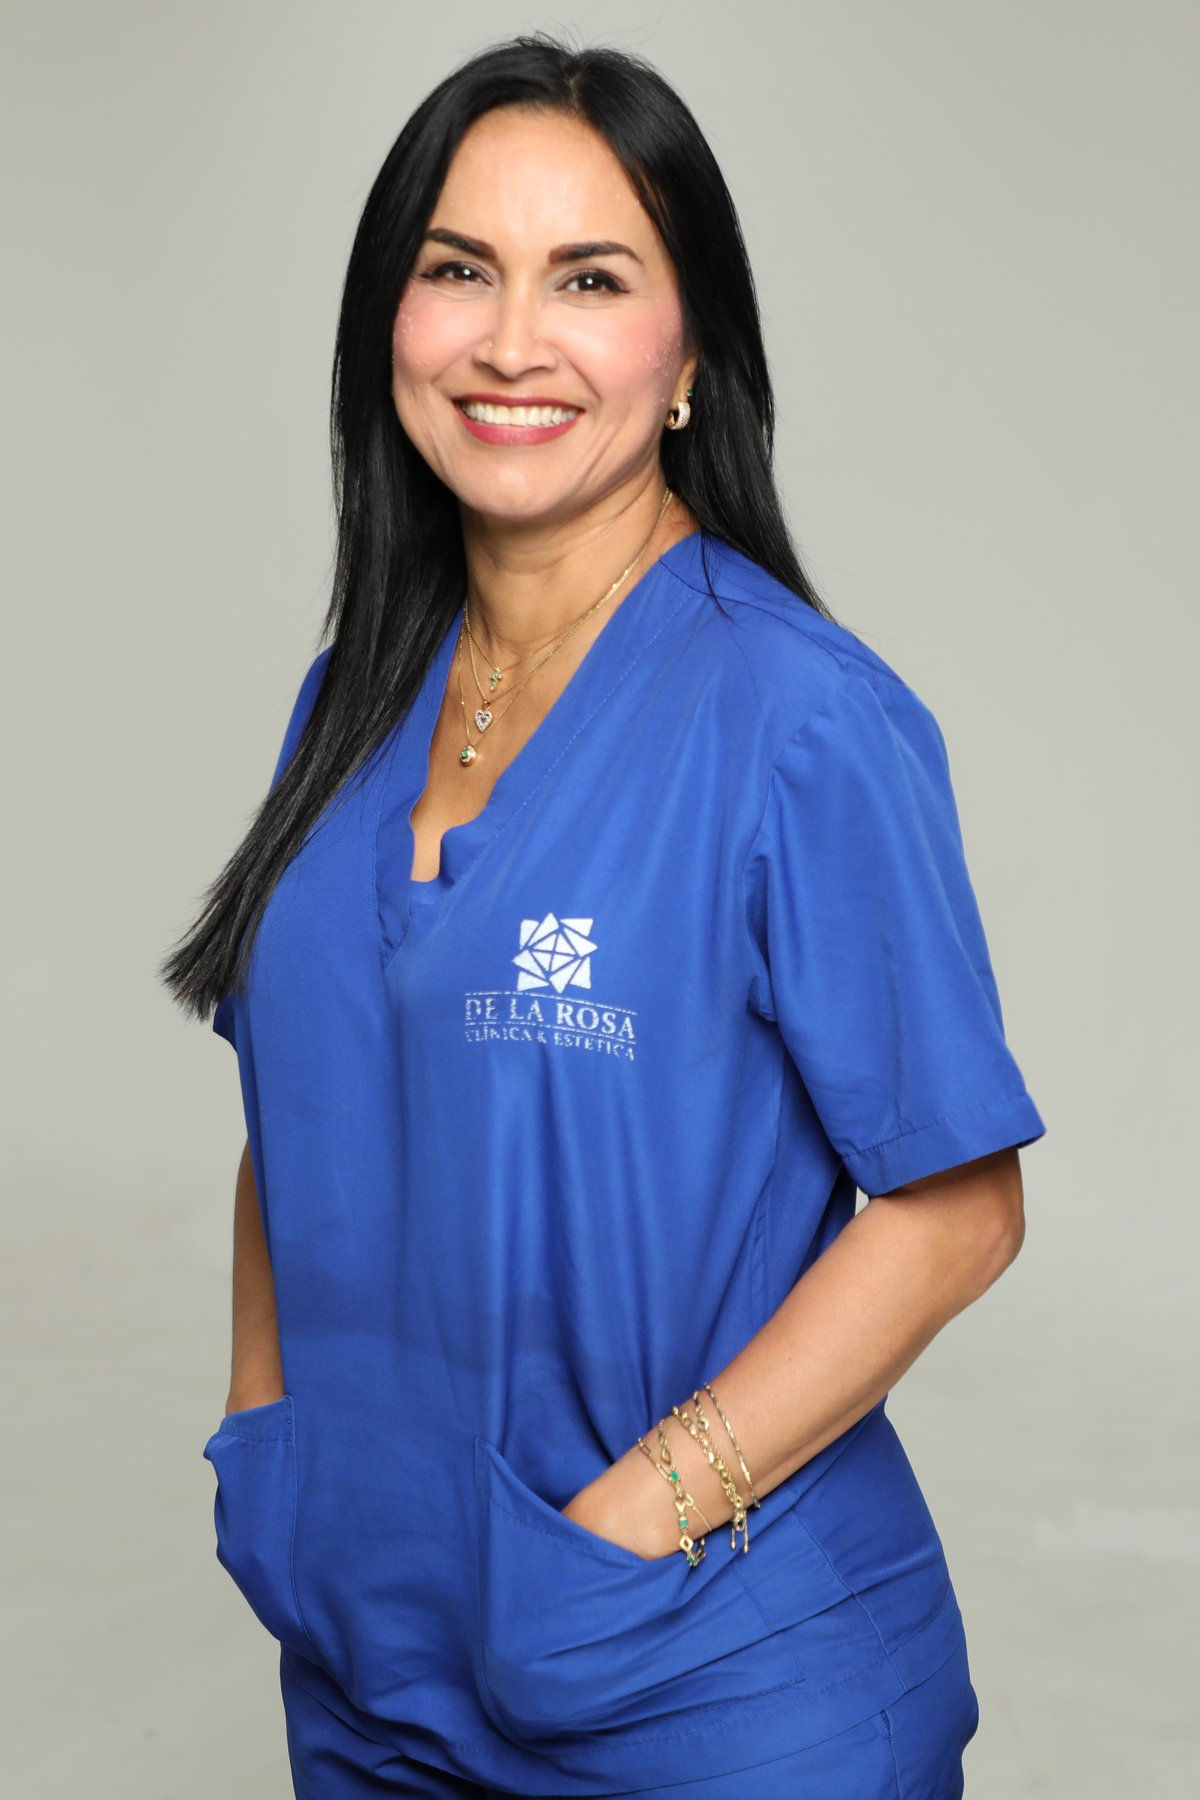
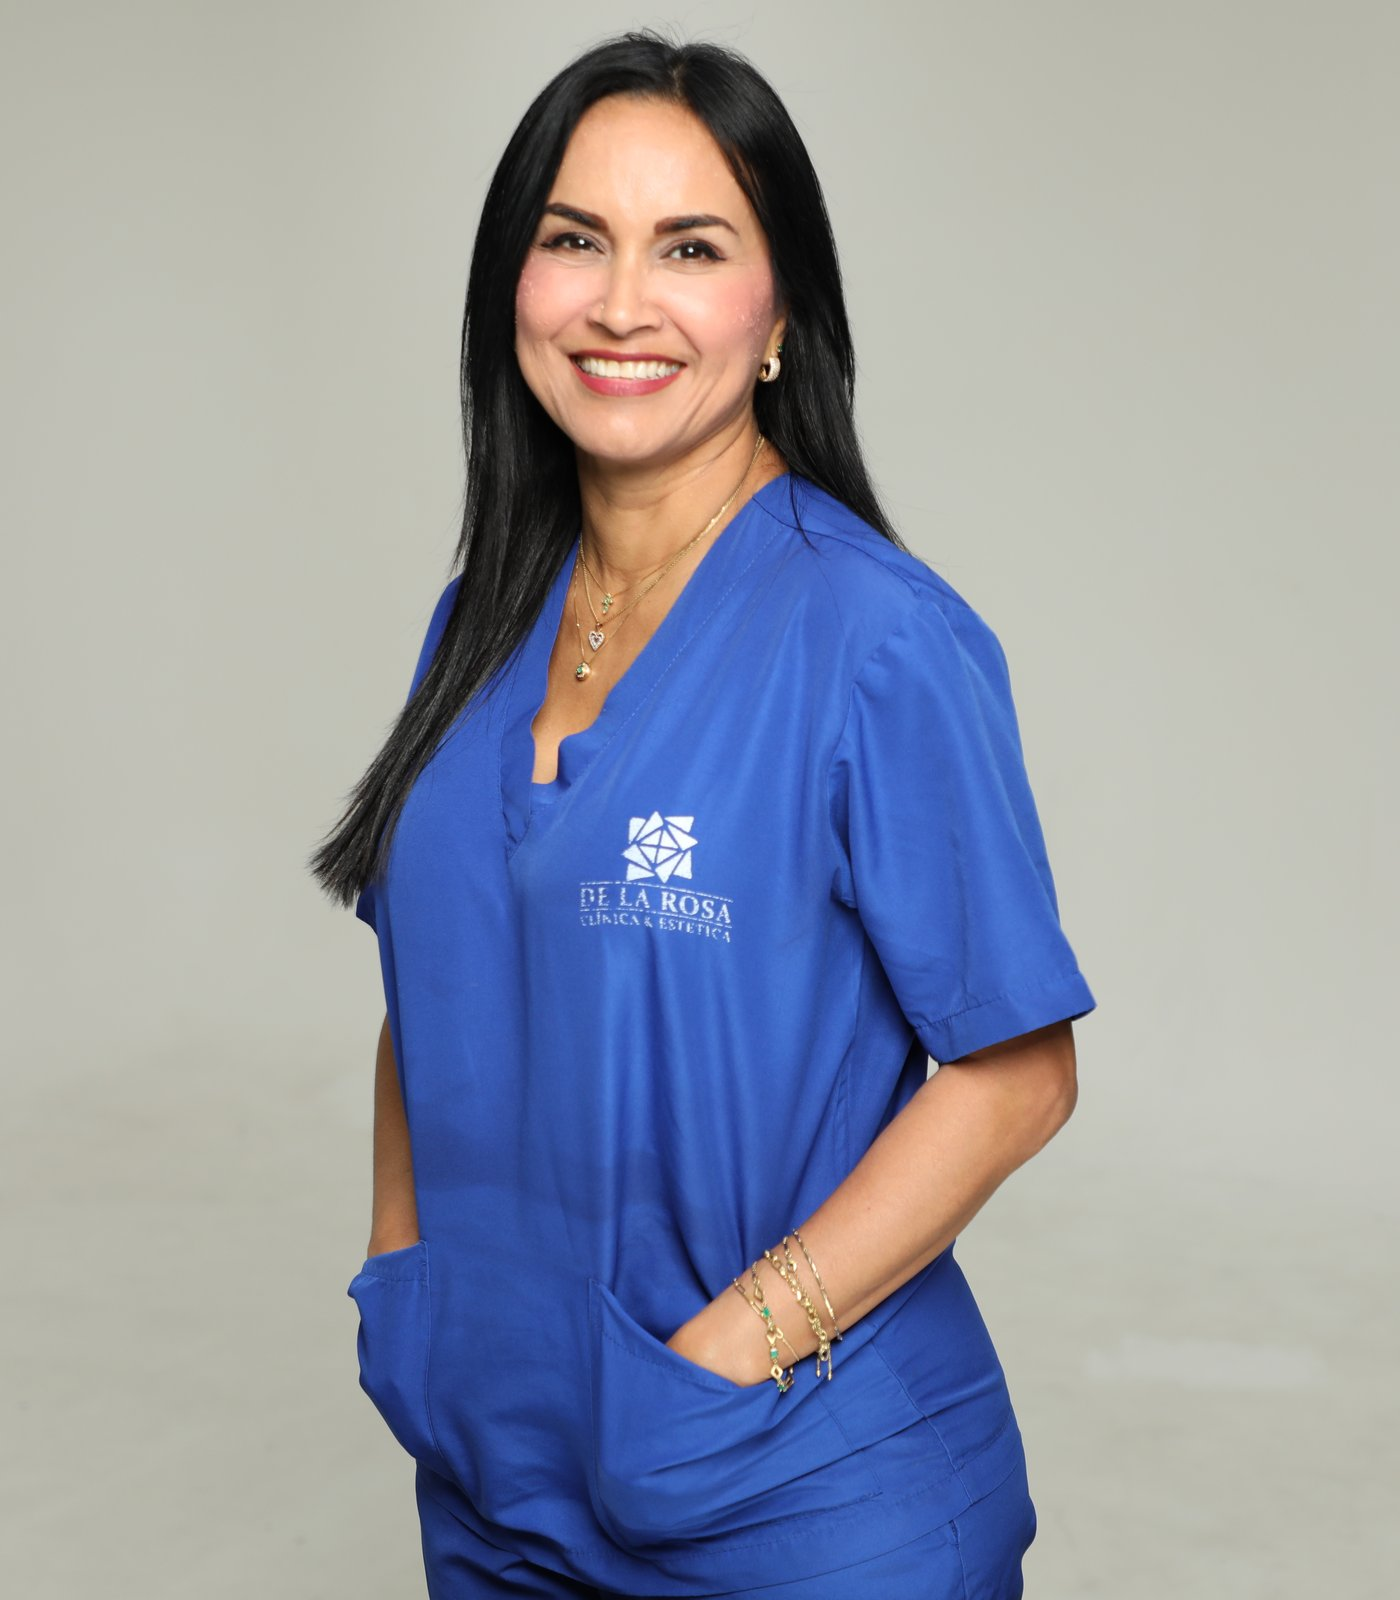
Add files via upload

Changed region(s): [[0.1233, 0.0, 0.8633, 1.0]]

diff --git a/nosotros.html b/nosotros.html
@@ -75,14 +75,26 @@
 </section>
 
 <section class="section section--crema">
-  <div class="container two-col" style="align-items: center;">
-    <img src="assets/img/doctora.jpg" alt="Dra. María Helena De La Rosa, cirujana plástica" width="1200" height="1800" loading="lazy" style="border-radius: 8px; max-height: 640px; width: 100%; object-fit: cover; object-position: center 20%;">
-    <div class="stack">
-      <div class="eyebrow">Nosotros</div>
-      <h2 class="h2">Dra. María Helena De La Rosa</h2>
-      <p class="muted">Cirujana plástica · [Credenciales y asociaciones]</p>
+  <div class="container doctors">
+    <div class="two-col doctor-profile">
+      <img src="assets/img/doctora.jpg" alt="Dra. María Helena De La Rosa, cirujana plástica" width="1400" height="1600" loading="lazy" style="border-radius: 8px; max-height: 640px; width: 100%; object-fit: cover; object-position: center top;">
+      <div class="stack">
+        <div class="eyebrow">Equipo médico</div>
+        <h2 class="h2">Dra. María Helena De La Rosa</h2>
+        <p class="muted">Cirujana plástica · [Credenciales y asociaciones]</p>
 <p class="muted" style="font-size: 18px; line-height: 1.75;">[Biografía de la doctora: formación, especialización y años de experiencia.]</p>
 <p class="muted" style="font-size: 18px; line-height: 1.75;">[Asociaciones a las que pertenece, p. ej. Sociedad Colombiana de Cirugía Plástica, y registro médico.]</p>
+      </div>
+    </div>
+    <div class="two-col doctor-profile doctor-profile--reverse">
+      <img src="assets/img/doctor-cesar.jpg" alt="Dr. César Sánchez, cirujano cardiovascular y vascular periférico" width="1400" height="1600" loading="lazy" style="border-radius: 8px; max-height: 640px; width: 100%; object-fit: cover; object-position: center top;">
+      <div class="stack">
+        <div class="eyebrow">Equipo médico</div>
+        <h2 class="h2">Dr. César Sánchez</h2>
+        <p class="muted">Cirujano cardiovascular y vascular periférico · [Credenciales y asociaciones]</p>
+<p class="muted" style="font-size: 18px; line-height: 1.75;">[Biografía del doctor: formación, especialización y años de experiencia.]</p>
+<p class="muted" style="font-size: 18px; line-height: 1.75;">[Asociaciones a las que pertenece y registro médico.]</p>
+      </div>
     </div>
   </div>
 </section>

diff --git a/en/nosotros.html b/en/nosotros.html
@@ -75,14 +75,26 @@
 </section>
 
 <section class="section section--crema">
-  <div class="container two-col" style="align-items: center;">
-    <img src="../assets/img/doctora.jpg" alt="Dr. María Helena De La Rosa, plastic surgeon" width="1200" height="1800" loading="lazy" style="border-radius: 8px; max-height: 640px; width: 100%; object-fit: cover; object-position: center 20%;">
-    <div class="stack">
-      <div class="eyebrow">About us</div>
-      <h2 class="h2">Dr. María Helena De La Rosa</h2>
-      <p class="muted">Plastic surgeon · [Credentials and memberships]</p>
+  <div class="container doctors">
+    <div class="two-col doctor-profile">
+      <img src="../assets/img/doctora.jpg" alt="Dr. María Helena De La Rosa, plastic surgeon" width="1400" height="1600" loading="lazy" style="border-radius: 8px; max-height: 640px; width: 100%; object-fit: cover; object-position: center top;">
+      <div class="stack">
+        <div class="eyebrow">Medical team</div>
+        <h2 class="h2">Dr. María Helena De La Rosa</h2>
+        <p class="muted">Plastic surgeon · [Credentials and memberships]</p>
 <p class="muted" style="font-size: 18px; line-height: 1.75;">[Doctor&#39;s biography: education, specialization and years of experience.]</p>
 <p class="muted" style="font-size: 18px; line-height: 1.75;">[Professional memberships, e.g. Colombian Society of Plastic Surgery, and medical license.]</p>
+      </div>
+    </div>
+    <div class="two-col doctor-profile doctor-profile--reverse">
+      <img src="../assets/img/doctor-cesar.jpg" alt="Dr. César Sánchez, cardiovascular and peripheral vascular surgeon" width="1400" height="1600" loading="lazy" style="border-radius: 8px; max-height: 640px; width: 100%; object-fit: cover; object-position: center top;">
+      <div class="stack">
+        <div class="eyebrow">Medical team</div>
+        <h2 class="h2">Dr. César Sánchez</h2>
+        <p class="muted">Cardiovascular and peripheral vascular surgeon · [Credentials and memberships]</p>
+<p class="muted" style="font-size: 18px; line-height: 1.75;">[Doctor&#39;s biography: education, specialization and years of experience.]</p>
+<p class="muted" style="font-size: 18px; line-height: 1.75;">[Professional memberships and medical license.]</p>
+      </div>
     </div>
   </div>
 </section>

diff --git a/assets/css/styles.css b/assets/css/styles.css
@@ -141,6 +141,11 @@ p { margin: 0; }
 .doctor strong { display: block; font-size: 20px; font-weight: 500; }
 .doctor span { font-size: 15px; color: var(--texto-2); }
 
+/* Perfiles médicos */
+.doctors { display: flex; flex-direction: column; gap: 96px; }
+.doctor-profile { align-items: center; }
+@media (min-width: 961px) { .doctor-profile--reverse > img { order: 2; } }
+
 /* Pacientes internacionales */
 .split { display: grid; grid-template-columns: 1fr 1fr; gap: 56px; align-items: center; }
 .steps { display: grid; grid-template-columns: repeat(2, minmax(0, 1fr)); gap: 8px; }
